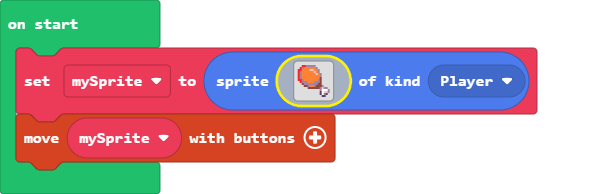
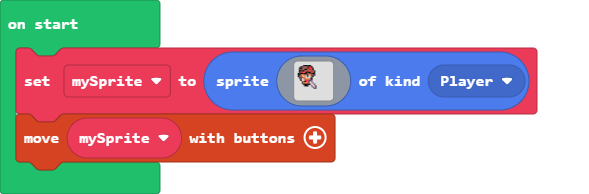
Created a new sprite

Changed region(s): [[0.4584, 0.2784, 0.6112, 0.5567]]

diff --git a/main.ts b/main.ts
@@ -1,19 +1,27 @@
 let mySprite = sprites.create(img`
-    . . 2 2 b b b b b . . . . . . . 
-    . 2 b 4 4 4 4 4 4 b . . . . . . 
-    2 2 4 4 4 4 d d 4 4 b . . . . . 
-    2 b 4 4 4 4 4 4 d 4 b . . . . . 
-    2 b 4 4 4 4 4 4 4 d 4 b . . . . 
-    2 b 4 4 4 4 4 4 4 4 4 b . . . . 
-    2 b 4 4 4 4 4 4 4 4 4 e . . . . 
-    2 2 b 4 4 4 4 4 4 4 b e . . . . 
-    . 2 b b b 4 4 4 b b b e . . . . 
-    . . e b b b b b b b e e . . . . 
-    . . . e e b 4 4 b e e e b . . . 
-    . . . . . e e e e e e b d b b . 
-    . . . . . . . . . . . b 1 1 1 b 
-    . . . . . . . . . . . c 1 d d b 
-    . . . . . . . . . . . c 1 b c . 
-    . . . . . . . . . . . . c c . . 
+    ....ffffff..............
+    ..ffeeeef2f.............
+    .ffeeeef222f............
+    .feeeffeeeef............
+    .ffffee2222ef...........
+    .fe222ffffe2f...........
+    fffffffeeefff...........
+    ffe44ebf44eef...........
+    fee4d41fddef............
+    .feee4ddddf.............
+    ..fdde444ef.............
+    ..fdde22ccc.............
+    ...eef22cdc.............
+    ...f4444cddc............
+    ....fffffcddc...........
+    .....fff..cddc..........
+    ...........cdc..........
+    ............cc..........
+    ........................
+    ........................
+    ........................
+    ........................
+    ........................
+    ........................
     `, SpriteKind.Player)
 controller.moveSprite(mySprite)
